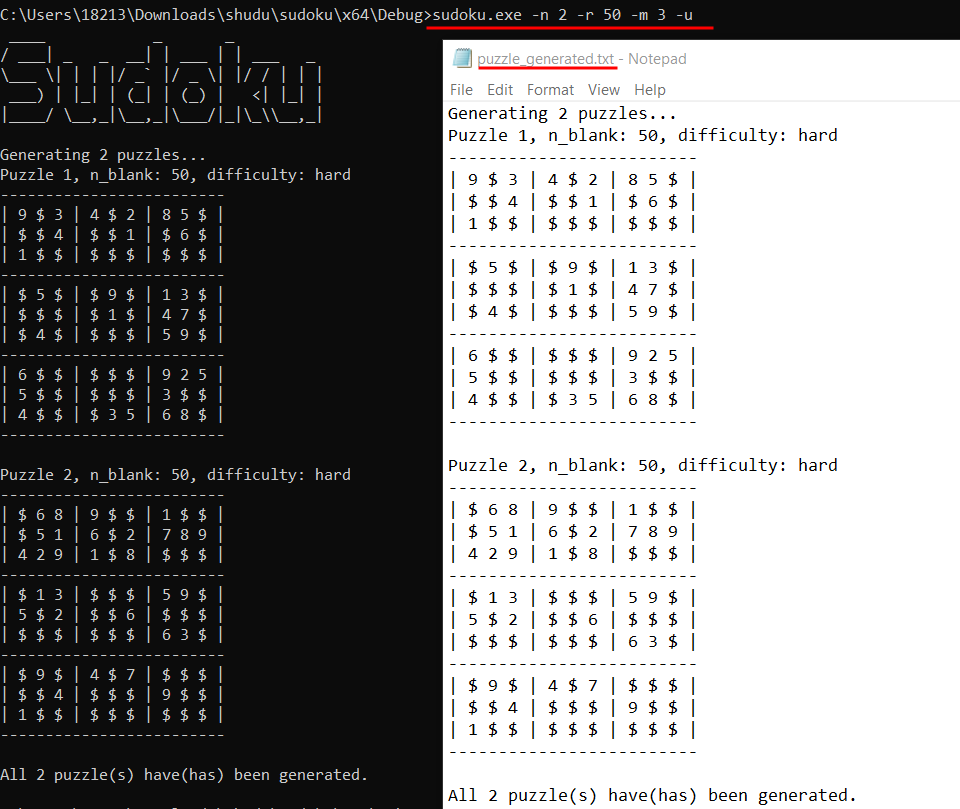
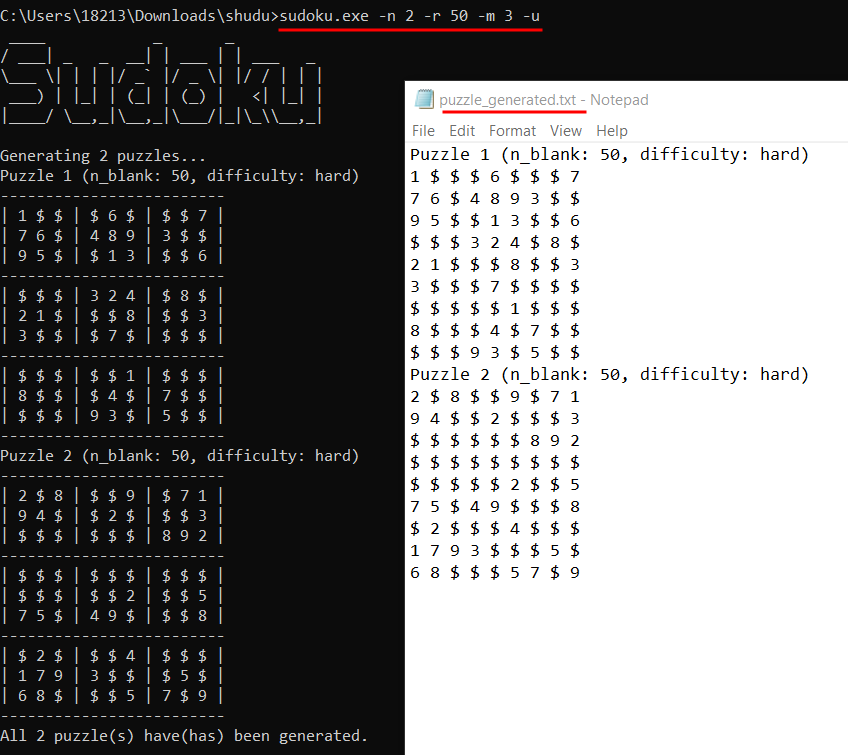
adapt generated puzzles for solving procedure

Changed region(s): [[0.0, 0.0, 1.0, 1.0], [0.8278, 0.5483, 0.8892, 0.5788]]

diff --git a/sudoku/Sudoku.h b/sudoku/Sudoku.h
@@ -133,7 +133,6 @@ public:
 	{
 		std::ofstream finale_file(FINALE_FILE);
 		std::cout << "Generating " << _n_finale << " finales..." << std::endl;
-		finale_file << "Generating " << _n_finale << " finales...\n";
 		int board[9][9];
 		char board_str_fmt[1024];
 		char result_str[1024];
@@ -141,13 +140,12 @@ public:
 		for (int i = 0; i < _n_finale; i++) {
 			gen_finale(board);
 			board_to_str_fmt(board, board_str_fmt, 1024);
-			snprintf(result_str, 1024, "Finale %d:\n%s\n", i + 1, board_str_fmt);
+			snprintf(result_str, 1024, "Finale %d:\n%s", i + 1, board_str_fmt);
 			std::cout << result_str;
 			finale_file << result_str;
 		}
 
 		std::cout << "All " << _n_finale << " finale(s) have(has) been generated." << std::endl;
-		finale_file << "All " << _n_finale << " finale(s) have(has) been generated.\n";
 		finale_file.close();
 	}
 
@@ -158,20 +156,22 @@ public:
 	{
 		std::ofstream puzzle_out_file(PUZZLE_OUT_FILE);
 		std::cout << "Generating " << _n_puzzle << " puzzles..." << std::endl;
-		puzzle_out_file << "Generating " << _n_puzzle << " puzzles...\n";
 		int board[9][9];
 		char board_str_fmt[1024];
-		char result_str[1024];
+		char board_str[1024];
+		char result_str_std_out[1024];
+		char result_str_fstream[1024];
 
 		for (int i = 0; i < _n_puzzle; i++) {
 			gen_puzzle(board);
 			board_to_str_fmt(board, board_str_fmt, 1024);
-			snprintf(result_str, 1024, "Puzzle %d, n_blank: %d, difficulty: %s\n%s\n", i + 1, get_board_blanks(board), DIFFICULTY_MAP[analyze_difficulty(board)], board_str_fmt);
-			std::cout << result_str;
-			puzzle_out_file << result_str;
+			board_to_str(board, board_str, 1024);
+			snprintf(result_str_std_out, 1024, "Puzzle %d (n_blank: %d, difficulty: %s)\n%s", i + 1, get_board_blanks(board), DIFFICULTY_MAP[analyze_difficulty(board)], board_str_fmt);
+			snprintf(result_str_fstream, 1024, "Puzzle %d (n_blank: %d, difficulty: %s)\n%s", i + 1, get_board_blanks(board), DIFFICULTY_MAP[analyze_difficulty(board)], board_str);
+			std::cout << result_str_std_out;
+			puzzle_out_file << result_str_fstream;
 		}
 		std::cout << "All " << _n_puzzle << " puzzle(s) have(has) been generated." << std::endl;
-		puzzle_out_file << "All " << _n_puzzle << " puzzle(s) have(has) been generated.\n";
 	}
 
 	/*
@@ -236,7 +236,7 @@ public:
 			solve_puzzle(board);
 			board_to_str_fmt(board, board_str_fmt, 1024);
 
-			snprintf(result_str, 1024, "Solution for %s:\n%s\n", puzzle_name.c_str(), board_str_fmt);
+			snprintf(result_str, 1024, "Solution for %s:\n%s", puzzle_name.c_str(), board_str_fmt);
 			std::cout << result_str;
 			solution_file << result_str;
 		}
@@ -298,7 +298,7 @@ public:
 
 	/*
 	Convert 9 * 9 board into a flattened string
-	`0` will be maped to `$`
+	`0` will be mapped to `$`
 	*/
 	void board_to_str(int board[9][9], char* board_str) const
 	{
@@ -311,6 +311,36 @@ public:
 				*ptr_dst++ = CHARACTER_MAP[*ptr_src++];
 			}
 		}
+	}
+
+	/*
+	Convert 9 * 9 board into a board-like string
+	`0` will be mapped to `$`
+	*/
+	void board_to_str(int board[9][9], char* board_str, int buf_sz) const
+	{
+		char board_str_flat[81];
+		board_to_str(board, board_str_flat);
+		char* s = board_str_flat;
+		snprintf(board_str, buf_sz,
+			"%c %c %c %c %c %c %c %c %c\n"
+			"%c %c %c %c %c %c %c %c %c\n"
+			"%c %c %c %c %c %c %c %c %c\n"
+			"%c %c %c %c %c %c %c %c %c\n"
+			"%c %c %c %c %c %c %c %c %c\n"
+			"%c %c %c %c %c %c %c %c %c\n"
+			"%c %c %c %c %c %c %c %c %c\n"
+			"%c %c %c %c %c %c %c %c %c\n"
+			"%c %c %c %c %c %c %c %c %c\n",
+			s[0], s[1], s[2], s[3], s[4], s[5], s[6], s[7], s[8], s[9],
+			s[10], s[11], s[12], s[13], s[14], s[15], s[16], s[17], s[18], s[19],
+			s[20], s[21], s[22], s[23], s[24], s[25], s[26], s[27], s[28], s[29],
+			s[30], s[31], s[32], s[33], s[34], s[35], s[36], s[37], s[38], s[39],
+			s[40], s[41], s[42], s[43], s[44], s[45], s[46], s[47], s[48], s[49],
+			s[50], s[51], s[52], s[53], s[54], s[55], s[56], s[57], s[58], s[59],
+			s[60], s[61], s[62], s[63], s[64], s[65], s[66], s[67], s[68], s[69],
+			s[70], s[71], s[72], s[73], s[74], s[75], s[76], s[77], s[78], s[79],
+			s[80]);
 	}
 
 	/*

diff --git a/README.md b/README.md
@@ -20,6 +20,20 @@ sudoku.exe -c 2
 运行结果如下：
 ![usage_gen_finale](assets/usage_gen_finale.png)
 
+### 生成数独游戏
+- 使用参数`-n [n_puzzle]`指定生成数独游戏的数量，n_puzzle为正整数，不超过10000；数独游戏生成结果将保存到文件`puzzle_generated.txt`中。
+- 使用参数`-r [n_blank]`指定生成数独游戏的空白格数量，n_blank为正整数，范围在20到55之间。`-r`不能单独使用，必须指定`-n`参数。
+- 使用参数`-m [difficulty]`指定生成数独游戏的难度，difficulty为正整数，范围在1到3之间，分别表示简单、中等、困难三种难度。`-m`不能单独使用，必须指定`-n`参数。
+- 使用参数`-u`指定生成的数独游戏是否具有唯一解。`-u`不能单独使用，必须指定`-n`参数。对于一个标准的数独游戏，应当具有唯一解，因此建议生成数独游戏时，总是指定该参数。
+- `-r`,`-m`,`-u`三个参数可以只使用其中一个或两个，或同时使用。
+
+以生成两个难度为困难、空白格数量为50，具有唯一解的数独游戏为例，执行命令
+```bash
+sudoku.exe -n 2 -r 50 -m 3 -u
+```
+运行结果如下。生成到文件中的数独游戏以特殊的“游戏名+游戏内容”的格式保存，以下图为例，游戏名为`Puzzle 1 (n_blank: 50, difficulty: hard)`，游戏内容为9行9列的数独游戏，其中空白格用`$`表示。这样的格式符合我们约定的数独求解输入格式（详见下一节求解部分），因此可以直接使用`-s`参数求解生成的数独游戏。
+![usage_gen_puzzle](assets/usage_gen_puzzle.png)
+
 ### 求解数独游戏
 使用参数`-s [file]`求解数独游戏，file为数独游戏文件路径，可输入绝对或相对路径。数独游戏文件格式为：
 
@@ -54,26 +68,12 @@ $ 7 1 $ $ $ $ $ $
 5 $ 6 $ $ 2 3 7 9
 ```
 
-以求解第二种格式的数独游戏为例，读取保存在文件`puzzle_input_fmt2.txt`中的数独游戏，求解结果将保存到`sudoku.txt`中。执行命令
+以求解第二种格式的数独游戏为例，读取保存生成到文件`puzzle_generated.txtt`中的数独游戏，求解结果将保存到`sudoku.txt`中。执行命令
 ```bash
-sudoku.exe -s puzzle_input_fmt2.txt
+sudoku.exe -s puzzle_generated.txt
 ```
-运行结果如下：
+运行结果如下。生成的数独游戏被成功求解。
 ![usage_read_and_solve](assets/usage_read_and_solve.png)
-
-### 生成数独游戏
-- 使用参数`-n [n_puzzle]`指定生成数独游戏的数量，n_puzzle为正整数，不超过10000；数独游戏生成结果将保存到文件`puzzle_generated.txt`中。
-- 使用参数`-r [n_blank]`指定生成数独游戏的空白格数量，n_blank为正整数，范围在20到55之间。`-r`不能单独使用，必须指定`-n`参数。
-- 使用参数`-m [difficulty]`指定生成数独游戏的难度，difficulty为正整数，范围在1到3之间，分别表示简单、中等、困难三种难度。`-m`不能单独使用，必须指定`-n`参数。
-- 使用参数`-u`指定生成的数独游戏是否具有唯一解。`-u`不能单独使用，必须指定`-n`参数。对于一个标准的数独游戏，应当具有唯一解，因此建议生成数独游戏时，总是指定该参数。
-- `-r`,`-m`,`-u`三个参数可以只使用其中一个或两个，或同时使用。
-
-以生成两个难度为困难、空白格数量为50，具有唯一解的数独游戏为例，执行命令
-```bash
-sudoku.exe -n 2 -r 50 -m 3 -u
-```
-运行结果如下：
-![usage_gen_puzzle](assets/usage_gen_puzzle.png)
 
 ## 程序设计思路
 
